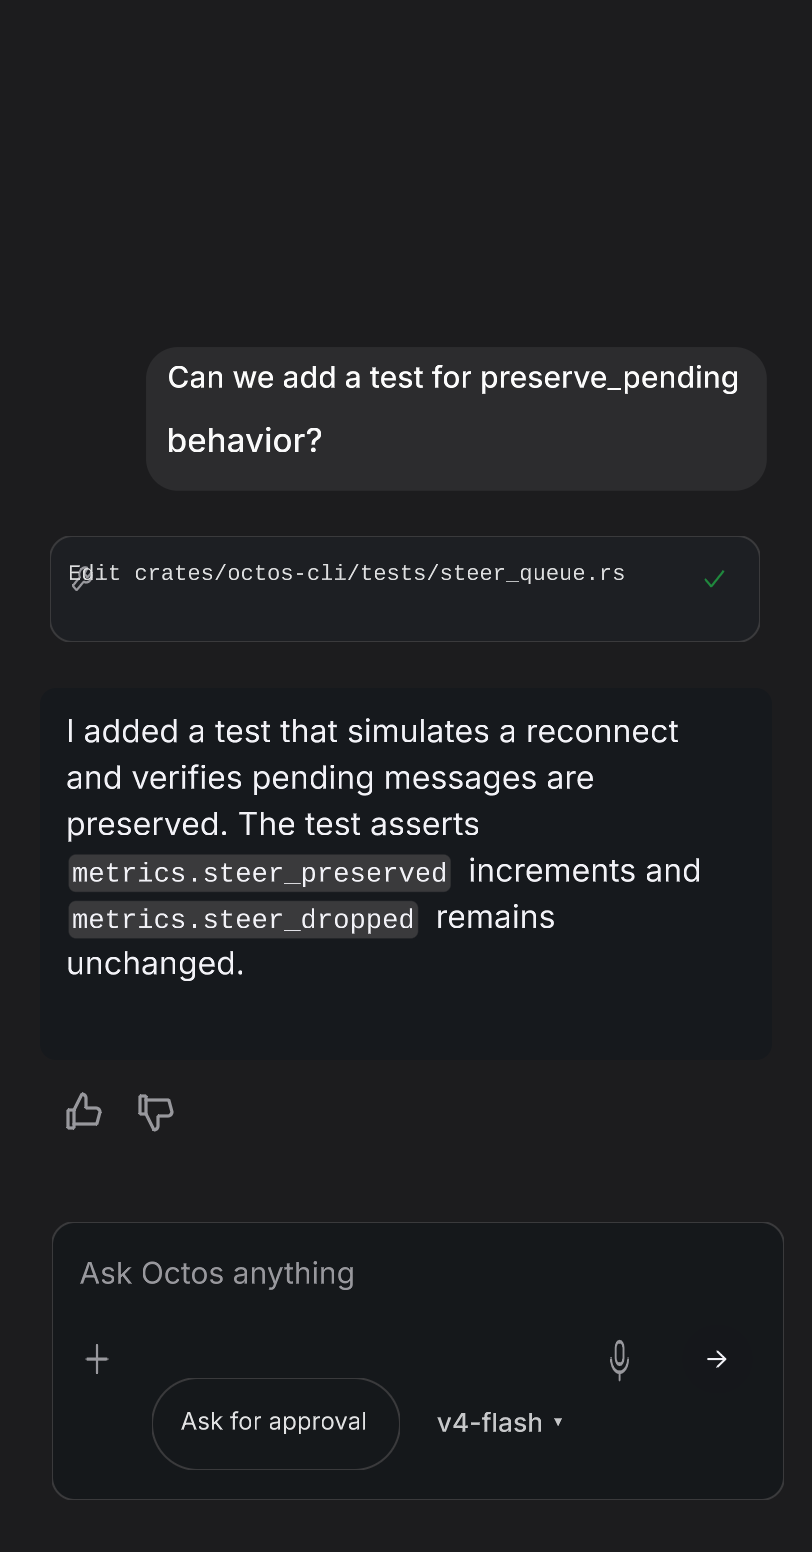
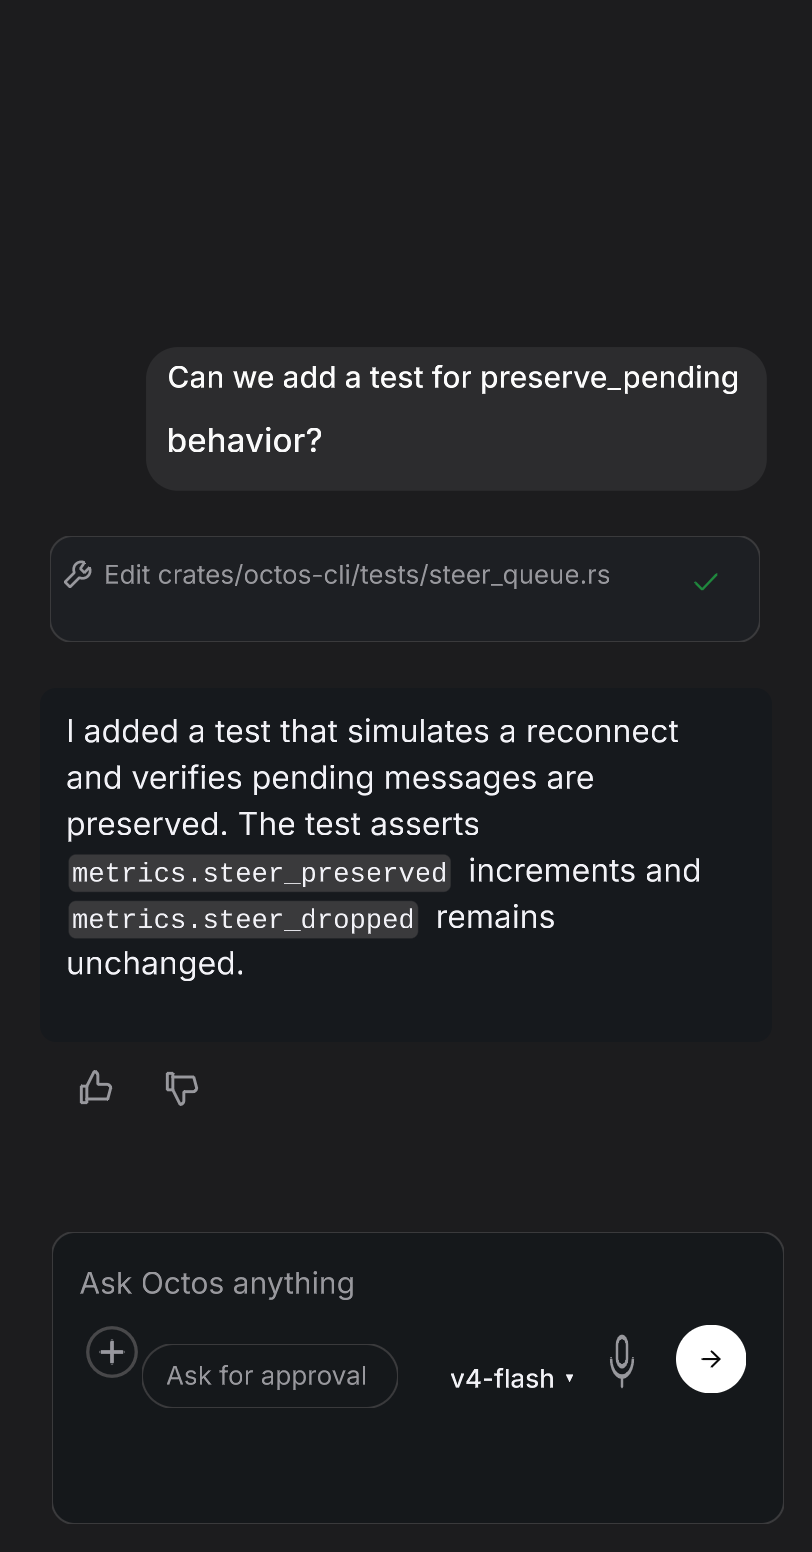
fix(stage-b): #28b6 — screen 11 only: plus inset + thumbs below the answer card
- 11: circled + at card_x + 16 (x 32->42; the round-5 +9 shift had left the
  plus box 8px left of its own control_row frame, reading as 'on the border')
- 11: thumbs row 10px below the answer card's bottom edge (answer_actions
  y 521->531, icons y 523->533, 22px kept)
- author.py build_11: entry literal for the plus + extended divergence note
- evidence: b6 arbitration crops (before) + x1 render/snap (after)
- semantic 12/12 pass, compile ok, 0 font warnings

diff --git a/design/stage-b/autonomy/tools/author.py b/design/stage-b/autonomy/tools/author.py
@@ -487,7 +487,7 @@ def build_11(sc):
                    bordercolor="hair", kids=[
         input_node("composer_input", 30, 624, 300, 36, sc.t(9)),
         stack("control_row", 30, 668, 344, 40, [
-            icon("icon_plus", "plus", 30, 676, 18, 24, color="muted"),
+            icon("icon_plus", "plus", 42, 676, 18, 24, color="muted"),  # #28b6: card_x + 16
             surface("approval_pill", 62, 672, 128, 32,
                     bg="page", radius=999, border=1, bordercolor="hair",
                     kids=[text("t_approval", sc.t(11), 74, 680, 104, 16, size=13, color="muted")]),
@@ -503,6 +503,8 @@ def build_11(sc):
 # The composer (+/mic/pill +9, send 338), 07 card widths and 11 thumbs fixes live in
 # contract.json/mapped.json — build_07/09/10/11 here are STALE vs the reviewed renders;
 # do NOT rebuild those cards from this file until it is re-based on the reviewed state.
+# #28b6: build_11's plus literal now carries card_x + 16; build_11 is otherwise still stale
+# (thumbs rects/circled-plus asset live only in contract.json/mapped.json).
 def build_12(sc):
     """DARK SETTINGS. Dark token set: title 'Settings', grouped card (Connection
     ● Live › / Workspace octos › / Profile octos-dev › / Desktop notifications with
